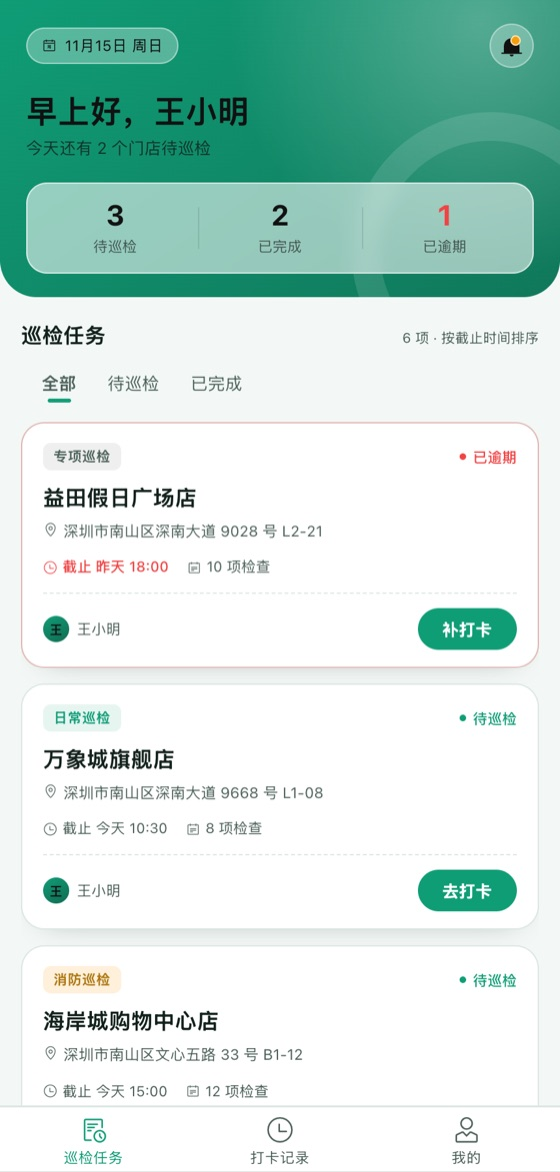
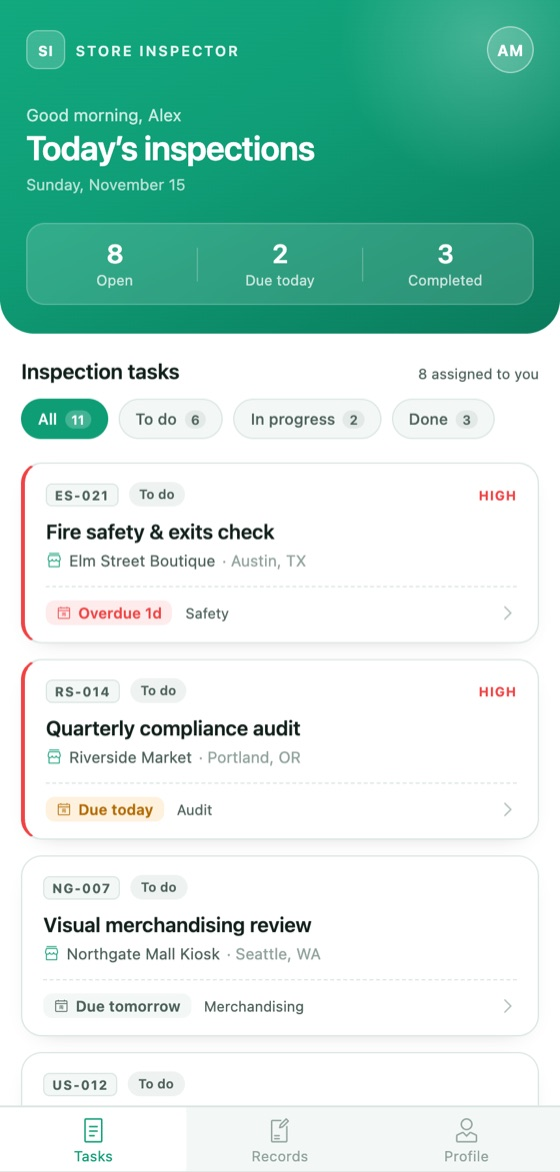
feat: apps follow DSH's language; English screenshots; release 0.1.2
- The Nocco page states the interface language in every request and
  nocco_scaffold requires one, so an app is no longer Chinese by default.
- The three older templates' starting pages show only the app's language.
- All README screenshots retaken from English demo apps.

diff --git a/resources/templates/antdv/pages/index.vue b/resources/templates/antdv/pages/index.vue
@@ -1,4 +1,6 @@
 <script setup lang="ts">
+// The page speaks the language the app was created in.
+const zh = useIsChinese();
 // Nocco placeholder — replaced when the AI generates real pages.
 // Design intent: architectural "blueprint" feel. Dashed grid, serif
 // display type, Nocco purple gradient mark. Makes it unmistakable
@@ -35,57 +37,51 @@ const clock = computed(() =>
           <path fill="url(#ng)" d="M66.657 0H28.343a7.948 7.948 0 0 0-6.887 3.979L2.288 37.235a7.948 7.948 0 0 0 0 7.938L21.456 78.43a7.948 7.948 0 0 0 6.887 3.979h38.314a7.948 7.948 0 0 0 6.886-3.98l19.17-33.256a7.948 7.948 0 0 0 0-7.938L73.542 3.98A7.948 7.948 0 0 0 66.657 0Z" />
           <path fill="#fff" fill-rule="evenodd" d="M50.642 59.608c-3.468 0-6.873-1.261-8.827-3.973l-.69 3.198-12.729 6.762 1.374-6.762 9.27-42.04h11.35l-3.279 14.818c2.649-2.9 5.108-3.973 8.26-3.973 6.81 0 11.35 4.477 11.35 12.675 0 8.45-5.233 19.295-16.079 19.295Zm4.351-16.9c0 3.91-2.774 6.874-6.368 6.874-2.018 0-3.847-.757-5.045-2.08l1.766-7.757c1.324-1.324 2.837-2.08 4.603-2.08 2.711 0 5.044 2.017 5.044 5.044Z" />
         </svg>
-        <div class="wordmark">NOCCO · 待构建工区</div>
+        <div class="wordmark">NOCCO · {{ zh ? '待构建工区' : 'WORKSPACE' }}</div>
       </div>
       <div class="meta">
-        <span class="dot" /> UNBUILT CANVAS · {{ clock }}
+        <span class="dot" /> {{ zh ? '空白画布' : 'UNBUILT CANVAS' }} · {{ clock }}
       </div>
     </header>
 
     <main class="stage" :class="{ in: mounted }">
       <div class="measure">
         <div class="stamp">
-          <span>NOT YET BUILT</span>
-          <span>尚未生成</span>
+          <span>{{ zh ? '尚未生成' : 'NOT YET BUILT' }}</span>
         </div>
 
         <h1 class="display">
-          <span>An app will live here.</span>
-          <span class="faint">你的应用将在此处生成</span>
+          <span>{{ zh ? '你的应用将在此处生成' : 'An app will live here.' }}</span>
         </h1>
 
         <p class="lede">
-          This is the blank canvas Nocco hands every new project.
-          Describe what you want in the chat and the page rewrites itself —
-          real components, real data, real routing.
-        </p>
-        <p class="lede zh">
-          这是 Nocco 为每个新项目保留的空白画布。
-          在对话里描述你想要的内容，页面会自动生成 —— 真实组件、真实数据、真实路由。
+          {{ zh
+            ? '这是 Nocco 为每个新项目保留的空白画布。在对话里描述你想要的内容，页面会自动生成：真实组件、真实数据、真实路由。'
+            : 'This is the blank canvas Nocco hands every new project. Describe what you want in the chat and the page rewrites itself: real components, real data, real routing.' }}
         </p>
 
         <div class="cards">
           <article class="card">
             <header>01 / STEP</header>
-            <h3>在对话中描述</h3>
-            <p>Write a prompt — "a dashboard of daily orders" works fine.</p>
+            <h3>{{ zh ? '在对话中描述' : 'Describe it in the chat' }}</h3>
+            <p>{{ zh ? '用一句话说出你想要的系统。' : 'Say what system you want in a sentence.' }}</p>
           </article>
           <article class="card accent">
             <header>02 / STEP</header>
-            <h3>观察热更新</h3>
-            <p>Watch pages, components, and routes appear live in this preview.</p>
+            <h3>{{ zh ? '观察实时更新' : 'Watch it update' }}</h3>
+            <p>{{ zh ? '页面、组件和路由会在这个预览里实时出现。' : 'Pages, components and routes appear live in this preview.' }}</p>
           </article>
           <article class="card">
             <header>03 / STEP</header>
-            <h3>登录使用</h3>
-            <p>Sign in with the admin account and use the system with real, stored data.</p>
+            <h3>{{ zh ? '直接使用' : 'Use it' }}</h3>
+            <p>{{ zh ? '系统可以直接使用，数据真实保存。' : 'Use the system with real, stored data.' }}</p>
           </article>
         </div>
 
         <footer class="sig">
-          <span>Framework</span><b>Nuxt 3 · Ant Design Vue</b>
-          <span>Status</span><b>Awaiting first generation</b>
-          <span>Template</span><b>antdv · desktop</b>
+          <span>{{ zh ? '框架' : 'Framework' }}</span><b>Nuxt 3 · Ant Design Vue</b>
+          <span>{{ zh ? '状态' : 'Status' }}</span><b>{{ zh ? '等待第一次生成' : 'Awaiting first generation' }}</b>
+          <span>{{ zh ? '模板' : 'Template' }}</span><b>antdv · desktop</b>
         </footer>
       </div>
     </main>

diff --git a/resources/templates/vant/pages/index.vue b/resources/templates/vant/pages/index.vue
@@ -8,6 +8,8 @@ import { onMounted, ref } from 'vue';
 
 const mounted = ref(false);
 onMounted(() => { mounted.value = true; });
+// The page speaks the language the app was created in.
+const zh = useIsChinese();
 </script>
 
 <template>
@@ -22,10 +24,10 @@ onMounted(() => { mounted.value = true; });
 
         <div class="chip">
           <span class="ping"><span class="ping-in" /></span>
-          <span>尚未生成 · Not Built</span>
+          <span>{{ zh ? '尚未生成' : 'Not built yet' }}</span>
         </div>
 
-        <h1 class="title">你的应用<br />即将在这里诞生</h1>
+        <h1 class="title">{{ zh ? '你的应用' : 'Your app' }}<br />{{ zh ? '即将在这里诞生' : 'will appear here' }}</h1>
         <p class="subtitle">Your app will be born right here.</p>
       </div>
       <svg class="curve" viewBox="0 0 375 40" preserveAspectRatio="none" aria-hidden="true">
@@ -42,12 +44,12 @@ onMounted(() => { mounted.value = true; });
             <span class="core" />
           </div>
           <div class="status-text">
-            <div class="status-title">等待你的第一条指令</div>
+            <div class="status-title">{{ zh ? '等待你的第一条指令' : 'Waiting for your first request' }}</div>
             <div class="status-sub">Awaiting your first prompt</div>
           </div>
         </div>
         <div class="status-hint">
-          在左侧对话栏里描述你想要做什么 —— 比如"一个记账本"或"员工签到打卡页面"。
+          {{ zh ? '在对话里描述你想要做什么，页面会出现在这里。' : 'Describe what you want in the chat, and its pages will appear here.' }}
         </div>
       </div>
 
@@ -55,24 +57,24 @@ onMounted(() => { mounted.value = true; });
         <div class="step">
           <div class="num">01</div>
           <div class="step-copy">
-            <div class="step-title">描述 · Describe</div>
-            <div class="step-desc">用一句话说清你想要的应用。</div>
+            <div class="step-title">{{ zh ? '描述' : 'Describe' }}</div>
+            <div class="step-desc">{{ zh ? '用一句话说清你想要的应用。' : 'Say what you want in a sentence.' }}</div>
           </div>
         </div>
         <div class="divider" />
         <div class="step">
           <div class="num">02</div>
           <div class="step-copy">
-            <div class="step-title">生成 · Generate</div>
-            <div class="step-desc">Nocco 自动写出页面、路由、数据。</div>
+            <div class="step-title">{{ zh ? '生成' : 'Generate' }}</div>
+            <div class="step-desc">{{ zh ? 'Nocco 自动写出页面、路由、数据。' : 'Nocco writes the pages, routes and data.' }}</div>
           </div>
         </div>
         <div class="divider" />
         <div class="step">
           <div class="num">03</div>
           <div class="step-copy">
-            <div class="step-title">使用 · Use</div>
-            <div class="step-desc">用管理员账号登录，数据真实保存。</div>
+            <div class="step-title">{{ zh ? '使用' : 'Use' }}</div>
+            <div class="step-desc">{{ zh ? '直接使用，数据真实保存。' : 'Use it: what you enter is really stored.' }}</div>
           </div>
         </div>
       </div>
@@ -82,7 +84,7 @@ onMounted(() => { mounted.value = true; });
         <span>·</span>
         <span>Vant Mobile</span>
         <span>·</span>
-        <span>模板未修改</span>
+        <span>{{ zh ? '模板未修改' : 'Template untouched' }}</span>
       </div>
     </main>
   </div>

diff --git a/src/text.ts b/src/text.ts
@@ -17,7 +17,7 @@ const table = {
     tabColours: '颜色', tabTypography: '字体', tabFeatures: '风格',
     'sans-serif': '无衬线', serif: '衬线', monospace: '等宽', cursive: '手写', fantasy: '装饰',
     rounded: '圆角', border: '细边框', gradient: '渐变点缀', shadow: '柔和阴影', frosted: '毛玻璃',
-    designLine: '设计体系：', paletteLine: '配色：', colours: '配色方案', defaultColours: '模板默认', customColour: '自定义主色',
+    languageLine: '界面语言：中文', designLine: '设计体系：', paletteLine: '配色：', colours: '配色方案', defaultColours: '模板默认', customColour: '自定义主色',
     enhance: '优化提示词', enhanceFailed: '优化失败，请检查模型配置后重试。',
     history: '历史', saveCheckpoint: '保存检查点', restore: '恢复到这里', confirmRestore: '确认恢复', cancel: '取消',
     current: '当前', filesChanged: '{n} 个文件', noCheckpoints: '还没有检查点。',
@@ -41,7 +41,7 @@ const table = {
     tabColours: 'Colours', tabTypography: 'Typography', tabFeatures: 'Features',
     'sans-serif': 'Sans serif', serif: 'Serif', monospace: 'Monospace', cursive: 'Cursive', fantasy: 'Fantasy',
     rounded: 'Rounded corners', border: 'Subtle border', gradient: 'Gradient accent', shadow: 'Soft shadow', frosted: 'Frosted glass',
-    designLine: 'Design system: ', paletteLine: 'Palette: ', colours: 'Colour scheme', defaultColours: 'Template default', customColour: 'Custom main colour',
+    languageLine: 'Interface language: English', designLine: 'Design system: ', paletteLine: 'Palette: ', colours: 'Colour scheme', defaultColours: 'Template default', customColour: 'Custom main colour',
     enhance: 'Enhance prompt', enhanceFailed: 'Could not enhance the prompt. Check that a model is configured and try again.',
     history: 'History', saveCheckpoint: 'Save checkpoint', restore: 'Restore this', confirmRestore: 'Confirm restore', cancel: 'Cancel',
     current: 'current', filesChanged: '{n} files', noCheckpoints: 'No checkpoints yet.',

diff --git a/resources/templates/shadcn/pages/index.vue b/resources/templates/shadcn/pages/index.vue
@@ -1,4 +1,6 @@
 <script setup lang="ts">
+// The page speaks the language the app was created in.
+const zh = useIsChinese();
 // Nocco placeholder for the shadcn-vue template — replaced when the AI
 // generates real pages. Minimal/editorial take: one huge typographic
 // statement, a breathing gradient mark, and unmistakable "not built
@@ -49,7 +51,7 @@ onMounted(() => { mounted.value = true; });
           <span class="absolute inline-flex h-full w-full animate-ping rounded-full bg-[#8a5fff] opacity-60"></span>
           <span class="relative inline-flex h-2 w-2 rounded-full bg-[#7645e8]"></span>
         </span>
-        <span class="font-medium text-[#2d1959] dark:text-[#efe7ff]">尚未生成 · Not Built Yet</span>
+        <span class="font-medium text-[#2d1959] dark:text-[#efe7ff]">{{ zh ? '尚未生成' : 'Not built yet' }}</span>
       </div>
     </header>
 
@@ -67,7 +69,7 @@ onMounted(() => { mounted.value = true; });
 
       <!-- Chinese sub-display -->
       <p class="mt-6 font-serif text-2xl font-light leading-snug text-[#5b4888] dark:text-[#b69eff] md:text-3xl">
-        在对话里告诉 Nocco 你想要什么，这个页面会自动变成你的应用。
+        {{ zh ? '在对话里告诉 Nocco 你想要什么，这个页面会自动变成你的应用。' : 'Tell Nocco what you want in the chat, and this page becomes your app.' }}
       </p>
 
       <!-- Three-step hint -->
@@ -75,7 +77,7 @@ onMounted(() => { mounted.value = true; });
         <div class="border-t border-[#e6deff] dark:border-[#1f1538] pt-4">
           <div class="font-mono text-[10px] tracking-widest text-[#8a5fff]">01 · PROMPT</div>
           <p class="mt-2 text-sm leading-relaxed text-[#2d1959] dark:text-[#efe7ff]">
-            Describe what you want in the chat — plain language, English or 中文.
+            {{ zh ? '在对话里用平常的话描述你想要什么。' : 'Describe what you want in the chat, in plain language.' }}
           </p>
         </div>
         <div class="border-t border-[#e6deff] dark:border-[#1f1538] pt-4">

diff --git a/src/index.ts b/src/index.ts
@@ -46,7 +46,7 @@ export function apply(ctx: Context): void {
     parameters: {
       directory: { type: 'string', required: true, description: 'Absolute path of the directory to create the app in' },
       appName: { type: 'string', required: true, description: 'Name shown in the page title' },
-      language: { type: 'string', description: 'Interface language of the app: zh-CN or en. Defaults to zh-CN' },
+      language: { type: 'string', required: true, description: 'Interface language of the app: zh-CN or en. The language the request names; when it names none, the language the user is writing in' },
       designSystem: { type: 'string', description: 'antdv (Ant Design Vue, desktop admin systems), shadcn (shadcn with Tailwind, modern web apps), vant (Vant, mobile apps) or retro (the look of a 1990s web page). Defaults to antdv' },
       palette: { type: 'string', description: 'Colour palette of the app: violet, navy, emerald, amber, rose, night, or a #rrggbb main colour. Defaults to the template\'s own colours' },
       font: { type: 'string', description: 'Font of the app: sans-serif, serif, monospace, cursive or fantasy. Defaults to the template\'s own font' },
@@ -57,7 +57,7 @@ export function apply(ctx: Context): void {
       const created = await scaffold({
         directory: args.directory,
         appName: args.appName,
-        language: args.language === 'en' ? 'en' : 'zh-CN',
+        language: /^zh/i.test(args.language.trim()) ? 'zh-CN' : 'en',
         designSystem: DESIGN_SYSTEMS.includes(args.designSystem as DesignSystem) ? (args.designSystem as DesignSystem) : 'antdv',
         palette: args.palette,
         font: args.font,

diff --git a/src/draft.ts b/src/draft.ts
@@ -19,7 +19,7 @@ export interface DraftChoices {
   files?: readonly string[];
 }
 
-type DraftStrings = Pick<Strings, 'designLine' | 'paletteLine' | 'fontLine' | 'styleLine' | 'modeLine' | 'filesLine' | 'discuss' | FeatureId>;
+type DraftStrings = Pick<Strings, 'languageLine' | 'designLine' | 'paletteLine' | 'fontLine' | 'styleLine' | 'modeLine' | 'filesLine' | 'discuss' | FeatureId>;
 
 /**
  * The draft a Build action puts in a new session: the skill invocation, what
@@ -27,7 +27,8 @@ type DraftStrings = Pick<Strings, 'designLine' | 'paletteLine' | 'fontLine' | 's
  * left at their defaults add no line.
  */
 export function buildDraft(request: string, choices: DraftChoices, strings: DraftStrings): string {
-  const lines = [`${strings.designLine}${choices.designSystem}`];
+  // The app is made in the language DSH itself is showing, unless the request says otherwise.
+  const lines = [`${strings.designLine}${choices.designSystem}`, strings.languageLine];
   if (choices.palette) lines.push(`${strings.paletteLine}${choices.palette}`);
   if (choices.font) lines.push(`${strings.fontLine}${choices.font}`);
   if (choices.features?.length) lines.push(`${strings.styleLine}${choices.features.map((id) => strings[id]).join(', ')}`);

diff --git a/README.md b/README.md
@@ -47,16 +47,17 @@ DSH can write a web app without any plugin. Nocco changes what that work is like
 
 ## The Nocco page
 
-![The Nocco page: a prompt box with design system, colour scheme, file attach and the Discuss / Build switch, above suggestions written by your model](docs/screenshots/home.jpg)
+![The Nocco page: a prompt box with design system, colour scheme, file attach and the Discuss / Build switch, above a suggested system to build](docs/screenshots/home.jpg)
 
-The suggestions under the box are written by your model from the names of
-your workspace files and recent sessions.
+The line under the box suggests systems to build. Your model writes the
+suggestions from the names of your workspace files and recent sessions;
+sample ideas are shown until it has.
 
 ## Design systems
 
 | Ant Design · desktop admin | shadcn · modern web |
 | --- | --- |
-| ![A sales report dashboard built with the Ant Design system](docs/screenshots/antdv.jpg) | ![A snake game built with the shadcn system](docs/screenshots/shadcn.jpg) |
+| ![A sales dashboard built with the Ant Design system](docs/screenshots/antdv.jpg) | ![A snake game built with the shadcn system](docs/screenshots/shadcn.jpg) |
 
 | Retro · 1990s web | Vant · mobile |
 | --- | --- |

diff --git a/resources/skill/SKILL.md b/resources/skill/SKILL.md
@@ -7,7 +7,9 @@ keep the app running, and check the preview after each change.
 
 ## Start and run
 
-A new system begins with the `nocco_scaffold` tool. Give it an absolute path
+A new system begins with the `nocco_scaffold` tool. Create it in the
+interface language the request names; when it names none, in the language
+the user is writing to you in, and write all of the app's text in that language. Give it an absolute path
 to an empty directory, a name, and a design system: `antdv` for desktop admin
 systems, `shadcn` for modern web apps, `vant` for mobile apps, `retro` for the
 look of a 1990s web page. The design

diff --git a/CHANGELOG.md b/CHANGELOG.md
@@ -1,5 +1,14 @@
 # Changelog
 
+## 0.1.2
+
+- Apps are created in DSH's own language: the Nocco page states it in every
+  request, and the agent must always choose a language (it no longer falls
+  back to Chinese).
+- The templates' starting pages show one language, the app's.
+- New introduction with screenshots in both READMEs; the screenshots ship in
+  the package so DSH's plugin page shows them.
+
 ## 0.1.1
 
 - Retro design system: the page frame is no longer fixed. Navigation sits on
